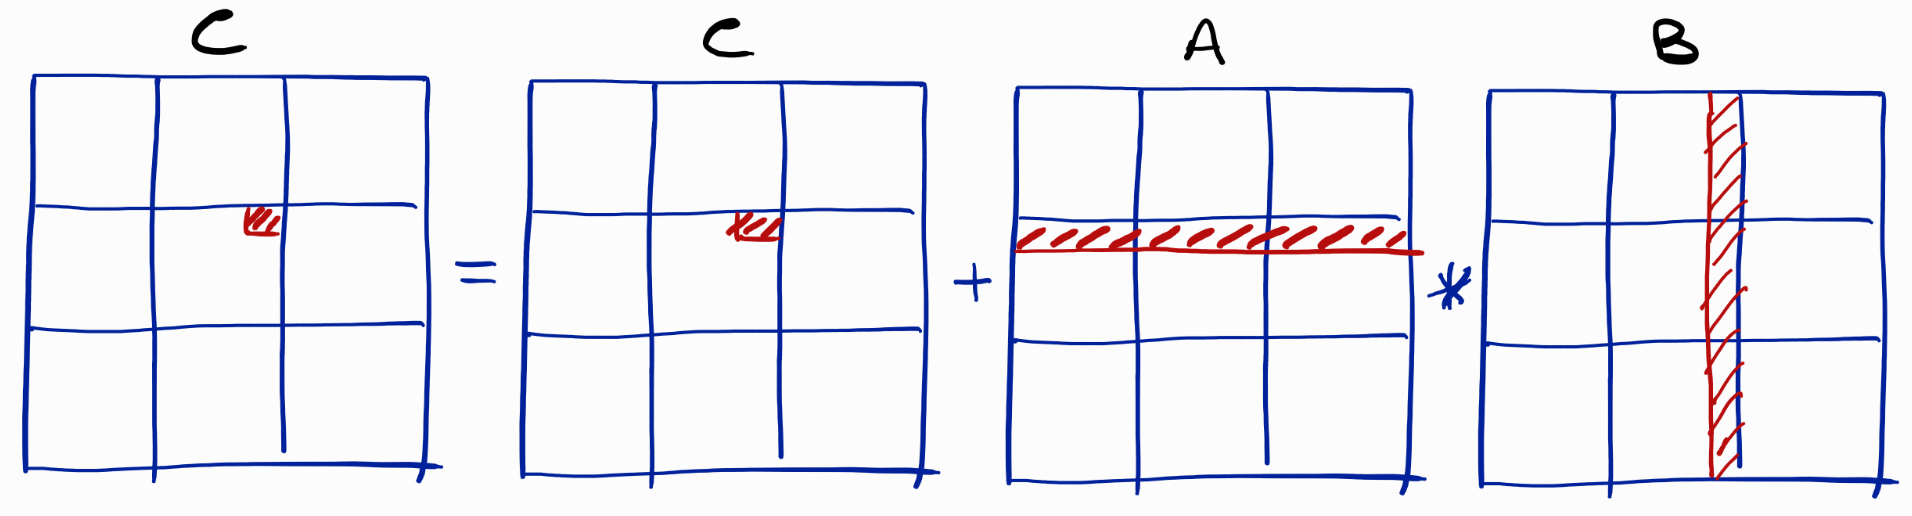
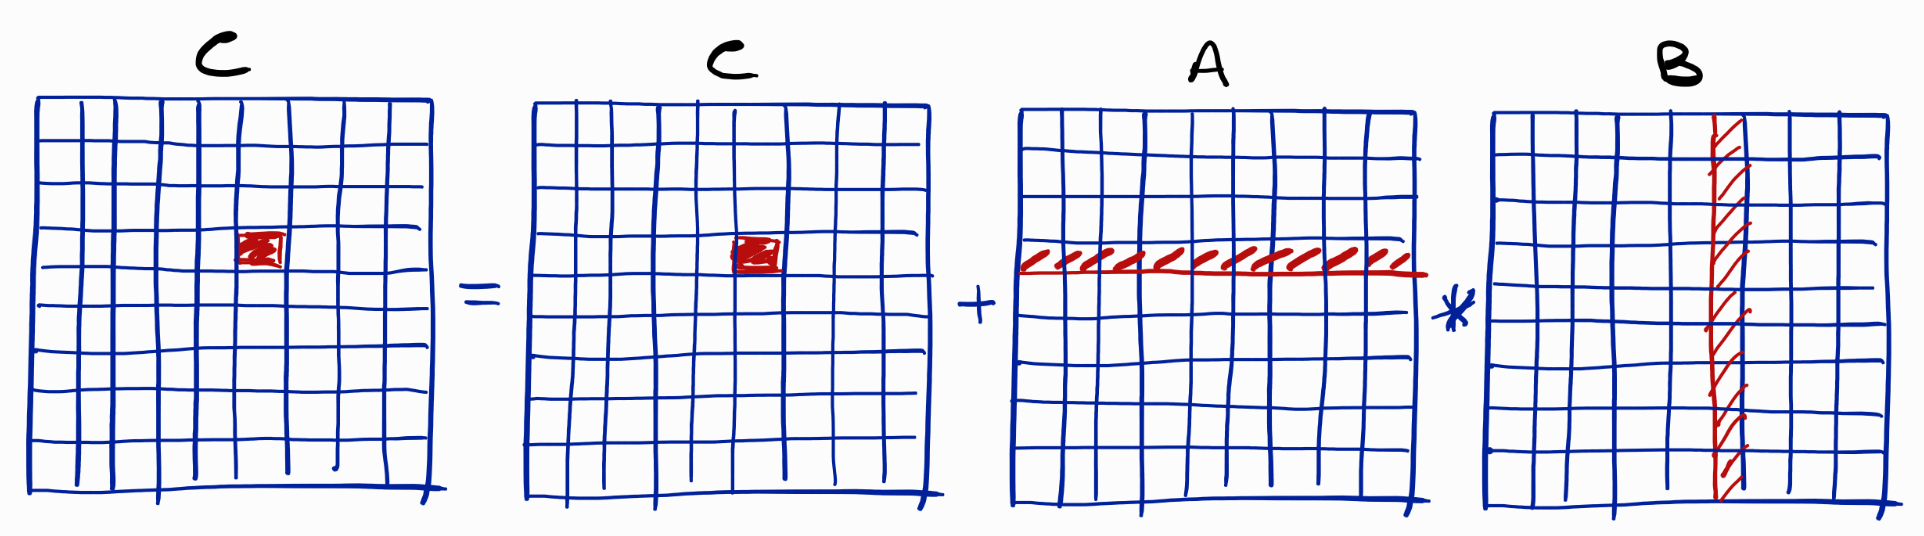
extending the lecture on GPU memory access

Changed region(s): [[0.0, 0.0, 1.0, 0.9612]]

diff --git a/GPU/matrix-by-matrix.md b/GPU/matrix-by-matrix.md
@@ -7,31 +7,37 @@ concept of *coalesced memory access*. A secondary aim is to show
 how to define a 2-dimensional topological grid of threads on our GPU.
 
 Before beginning with this lecture, it is important that you are 
-familiar with the lecture about 
-[cache memory optimization](../lowlevel/matrix-by-matrix.md).
+familiar with the lecture, available on this same repository, about 
+[cache memory access optimization](../lowlevel/matrix-by-matrix.md).
 
 ## One element per thread
 
-The block algorithm presented in the [previous lecture](../lowlevel/matrix-by-matrix.md)
-"converges back" to the standard algorithm for matrix-by-matrix when 
-we can allocate as many computing resources as the number of elements 
-forming the resulting matrix ```C```. On GPU, this setup gives us the 
-advantage of keeping only the inner loop of the sequential algorithm, 
-while the other two are implicitly ensured by the grid topology:
+The block algorithm presented in the other lecture, mentioned in the
+previous paragraph, "converges back" to the standard algorithm for 
+matrix-by-matrix when we can allocate as many computing resources as 
+the number of elements forming the resulting matrix ```C```. On GPU, 
+this setup gives us the possibility to reuse the standard algorithm
+for high performing computations, where the two outer for loops are 
+implicitly "implemented" by the GPU grid topology, so that only
+the inner for loop will have to be executed by each thread. This
+allows us to reduce the actual algorithm complexity from $n^3$ to $n$.
+
+The drawing below shows the memory locations that every thread needs
+to access in order to perform the computations:
 
 ![Thread working charge](./matrices.png)
 
-One important point is given by the way the matrix elements are 
-loaded during the execution of this algorithm over the grid.
-Before analyzing this point, however, let's read the main operations
-in the CUDA program [matrix-by-matrix.cu](./matrix-by-matrix.cu).
+One important point for the GPU implementation is given by the way 
+these matrix elements are loaded from the GPU global memory. But
+before analyzing this point in details, let's go over the main 
+operations in our CUDA program [matrix-by-matrix.cu](./matrix-by-matrix.cu).
 
 ## Matrix representation
 
-In order to simplify the transfer of the matrices from and to the 
-GPU global memory, we use 1-dimensional arrays to represent 
-2-dimensional objects. It will be necessary therefore to often convert 
-the standard 2D indices $(i,j)$ for the matrix elements into a unique 
+In order to simplify the transfer of the involved matrices from and to
+the GPU global memory, we use 1-dimensional arrays to represent
+2-dimensional objects. It will be necessary therefore to often convert
+the standard 2D indices $(i,j)$ for the matrix elements into a unique
 $k$ index related to the 1-dimensional array:
 
 	__host__ __device__ size_t index(size_t i,size_t j,size_t n)
@@ -41,14 +47,14 @@ $k$ index related to the 1-dimensional array:
 
 Notice that this function is meant to be invoked by both CPU and GPU.
 
-We also suppose that all matrices involved in the computations are
-*squared matrices*.
+For simplicity, we also suppose that all matrices involved in the 
+computations are *squared matrices*.
 
 ## Thread grid topology
 
 In our example, the size of the grid representing the topology of the
 GPU threads is supposed to perfectly match with the value of ```n```, which
-corresponds to the number of row and columns of our squared matrices.
+corresponds to the number of rows and columns in our squared matrices.
 
 In the code, these details are set up at the beginning of the main function:
 
@@ -59,7 +65,15 @@ In the code, these details are set up at the beginning of the main function:
 Recall that ```nthreads``` is the number of threads in each block allocated
 on the GPU. This value cannot be too large, because otherwise we can risk to
 allocate more threads in the same GPU block than the actual number of
-physical threads.
+physical threads. This is naturally impossible. Notice however that GPUs are 
+normally able to deal with this kind of situations, but at the cost of 
+lowering the overall performances.
+
+This drawing shows how the threads are organized in the grid topology, but
+with an example where ```nblocks``` and ```nthreads``` are both set to 3
+to enhance visualization:
+
+![Thread organization in grid](./matrices_threads_topo1.png)
 
 ## Data transfer
 
@@ -86,8 +100,8 @@ matrix representation:
 	size_t idy = (blockIdx.y*blockDim.y) + threadIdx.y;
 	size_t ind = index(idx,idy,n);
 
-Notice the necessity to know the row size, which can be easily obtained
-from the configuration of the grid topology.
+Notice the necessity to know the row size ```n```, which can be easily 
+obtained from the configuration of the grid topology.
 
 ## A kernel to set up all elements to zero
 
@@ -148,8 +162,9 @@ This is the output of the execution:
 	Transferring the result to the RAM ... done in 7.8e-05 seconds
 	Verifying the results ... done in 0.00035 seconds, results are OK
 
-The GPU version is **3 orders of magnitude** faster than the sequential version!
-If we rather use the block algorithm explained in [this lecture](../lowlevel/matrix-by-matrix.md),
+The GPU version is **almost 3 orders of magnitude** faster than the sequential 
+version! If we rather use the block algorithm explained in 
+[this lecture](../lowlevel/matrix-by-matrix.md),
 we can reduce the computational cost of the sequential algorithm up to 25% of
 the current cost, but the GPU will still be the "winner".
 
@@ -183,20 +198,63 @@ are contiguous, then the retrieval can be performed in one unique step. When thi
 is not the case, more than one memory transfer from the global memory is actually
 necessary, making the overall operation slower.
 
-This "second level" of contiguity in CUDA programming is known under the name
-of **coalesced memory access**.
+This "second level" of contiguity in CUDA programming is known under the name of 
+**coalesced memory access**.
 
-## Computing the sum of two vectors
+This drawing summarizes the previous two paragraphs in a graphical way (and using,
+again, the smaller topology employed above for the other drawing, where we can
+confuse blocks with warps):
 
-In order to show the benefits of having a coalesced memory access on an easier
-example, we consider another CUDA program which performs the sum of two 
-$n$-dimensional vectors. The full code is in the file [vectorsum.cu](./vectorsum.cu).
+![Memory access per warp](./matrices_threads_topo1_warps.png)
 
-This CUDA program initially generates the two vectors (of given length $n$) and 
-then it computes the sum of the two vectors in three different ways:
+The memory access to the elements of ```A``` is contiguous, but at the very 
+first step, when the first element of each row is retrieved, the access is not
+coalesced. This implies that, in the worst case scenario, the warp will have
+to communicate with the global memory as many times as the number of its
+working threads. The access to the elements of ```B``` is instead always
+coalesced!
+
+# Can we do better?
+
+It looks like the standard algorithm for matrix-by-matrix is more adapted to
+the use on GPU than its use on CPU. In fact, while the elements of ```A``` 
+are still accessed in a contiguous way, the elements of ```B```, for which
+we can define their access as *catastrophic* on CPU, are on the GPU accessed
+in a coalesced manner. There is only one drawback: the very first access
+to the first element of each row of ```A``` is not coalesced, and it is
+not contiguous either.
+
+What about changing the two-dimensional grid topology to improve the 
+memory access?
+
+![Thread organization in grid](./matrices_threads_topo2_warps.png)
+
+In our CUDA code, if we change the topology so that the blocks are organized
+in a $256 \times 4$ grid, and the threads in each block are organized in
+a $1 \tines 64$ grid, then our code becomes 3 times faster!
+
+	Matrix-by-Matrix on GPU with CUDA
+	Two-dimensional thread grid structure: [blocks (256,4), threads (1,64)]
+	Memory allocation on RAM ... done in 8e-06 seconds
+	Setting up to zero all elements of C matrix on RAM ... done in 0.000137 seconds
+	Random generation of matrices A and B ... done in 0.00205 seconds
+	Sequential version ... done in 0.105837 seconds
+	Memory allocation on GPU ... done in 0.181113 seconds
+	Setting up to zero all elements of C matrix on GPU ... done in 5.1e-05 seconds
+	Transferring A and B to the global memory ... done in 8.7e-05 seconds
+	CUDA version of matrix-by-matrix ... done in 0.000148 seconds
+	Transferring the result to the RAM ... done in 6.1e-05 seconds
+	Verifying the results ... done in 0.000267 seconds, results are OK
+
+## An exercise on a simpler CUDA program
+
+We consider now the problem of summing up two $n$-dimensional vectors. The CUDA 
+code is provided in the file [vectorsum.cu](./vectorsum.cu). It initially generates 
+the two vectors (of given length $n$) and then it computes the sum of the two vectors 
+in three different ways:
 
 1. it performs the computations in sequential on one core of the CPU;
-2. it performs the computations on GPU, without paying any attention 
+2. it performs the computations on GPU, without paying any special attention 
    to the way the vector elements are accessed by the threads on the GPU;
 3. it performs the computations on GPU by making sure that the access to 
    the vector elements is *coalesced*.
@@ -209,6 +267,9 @@ This is the result of an execution on the same GPU used above:
 	Computing the vector sum on CPU ...  done: elapsed time =  2.3357; verification: 3 + 3 = 6 
 	Computing the vector sum on GPU (non-coalesced) ...  done: elapsed time =  0.1816; verification: 8 + 0 = 8 
 	Computing the vector sum on GPU (coalesced) ...  done: elapsed time =  0.0820; verification: 7 + 9 = 16 
+
+Can you explain why the version of the kernel based on coalesced memory access
+is faster?
 
 ## Links
 

diff --git a/GPU/log2series.md b/GPU/log2series.md
@@ -26,7 +26,7 @@ implement a very simple approach in GPU programming where a chunk of
 consecutive terms of the series is assigned to each thread. The partial 
 sum that each thread computes is then stored in the appropriate element 
 of the array allocated on the GPU, and subsequently "sent" to the CPU. The 
-final computation, i.e. the sum of all partial sums, is performed in the 
+final computation, i.e. the sum of all partial sums, is performed by the 
 CPU (this part of the code is provided).
 
 ## Preparing the main
@@ -60,18 +60,18 @@ Do you remark any improvements? What about the quality of the result?
 It is time now to write our second kernel, the one named ```log2series_GPUv2```.
 Pay particular attention to the operations that are executed in the first
 version of your kernel, and try to find a different way to associate terms
-to threads so that the total number of operations is reduced. When you'll be 
-confident about your new kernel, complete the main function for its execution, 
-compile and test it. Do you remark any changes?
+to threads in such a way to reduce the total number of required operations. 
+When you'll be confident about your new kernel, complete the main function 
+for its execution, compile and test it. Do you remark any changes?
 
 ## Improving the quality of the results
 
-Take now your previous kernel, copy its code inside the third kernel, but then 
-modify it so that each thread can compute the partial sums by taking into 
-consideration the smallest terms at first (the ones where the denominator ```i+1``` 
-is larger), and then iterating in the "direction" of larger terms. Complete 
-everything necessary in the main function to run this third kernel. Then compile, 
-execute, and observe the results.
+Take now your previous kernel, copy its code inside the third kernel, and then 
+modify it so that each thread computes the partial sums by taking into consideration 
+the smallest terms at first (i.e. the ones where the denominator ```i+1``` is 
+larger), and iterating in the "direction" of larger terms. Complete everything 
+necessary in the main function to run this third kernel. Then compile, execute, 
+and observe the results.
 
 ## Links
 

diff --git a/README.md b/README.md
@@ -1,8 +1,8 @@
 
 # AM's Teaching repository
 
-This repository collects some lecture notes and exercises (with
-code snippets) for the main courses I'm currently teaching at 
+This repository collects some lecture notes (with code snippets) 
+and exercises for the main courses I'm currently teaching at 
 University of Rennes, Rennes, France.
 
 ## Lectures by topic
